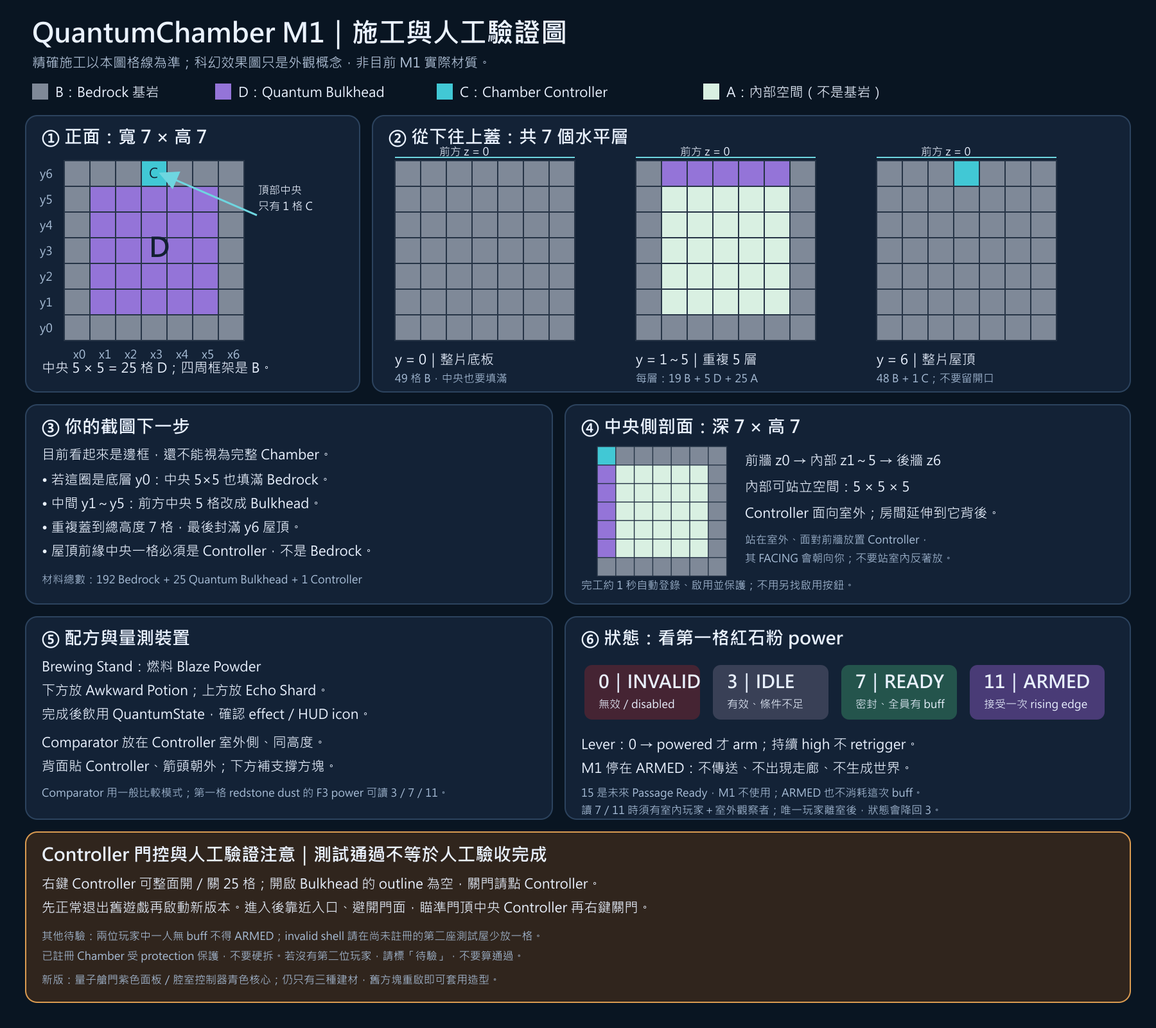
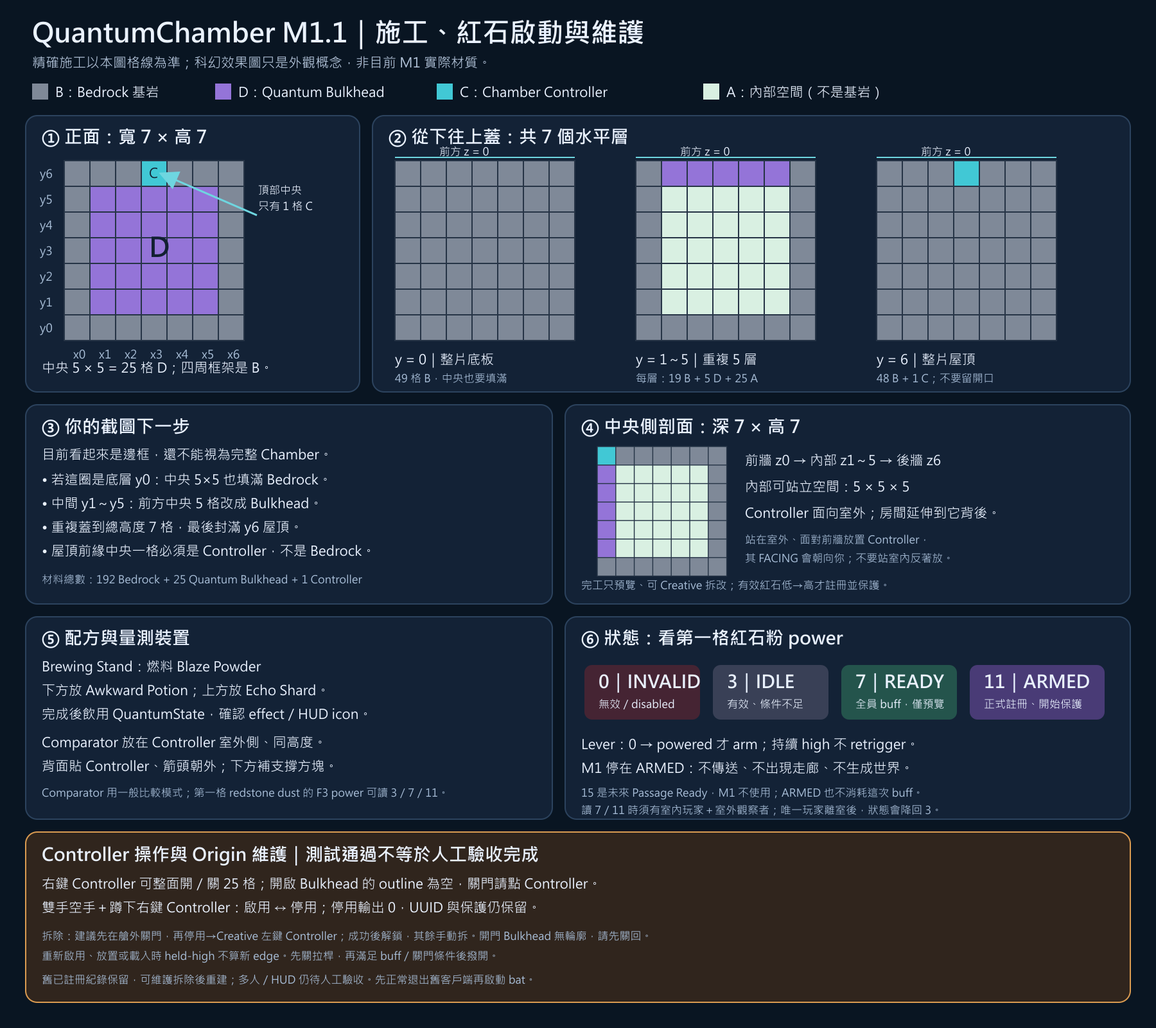
docs: record M1.1 maintenance verification and player guide

diff --git a/docs/plans/2026-09-17-m1.1-origin-maintenance.md b/docs/plans/2026-09-17-m1.1-origin-maintenance.md
@@ -50,7 +50,7 @@
 - Produces: `public Optional<ChamberRecord> findOrigin(Identifier worldKey, DimensionRole role, ChamberFrame frame)`，完全唯讀的 exact world／role／anchor／facing 查找。
 - Preserves: `attemptArm(ServerWorld, ChamberControllerBlockEntity)`，僅在資格通過後才 register／resolve；既有純 registry port seam 可保留。
 
-- [ ] **Step 1: 新增會失敗的行為測試。** 有效關門＋有 buff 玩家執行 refresh，應 READY，但 BE UUID null 且 `findOrigin` empty；scheduled tick、falling edge、開／關門和 chunk load 同樣不得新建 record。零人、無 buff、開門與錯誤 shell 的 pulse 不註冊；有效真正 pulse 才 ARMED 且受保護。使用真實 lever／world neighbor update，不只 direct attemptArm。
+- [x] **Step 1: 新增會失敗的行為測試。** 有效關門＋有 buff 玩家執行 refresh，應 READY，但 BE UUID null 且 `findOrigin` empty；scheduled tick、falling edge、開／關門和 chunk load 同樣不得新建 record。零人、無 buff、開門與錯誤 shell 的 pulse 不註冊；有效真正 pulse 才 ARMED 且受保護。使用真實 lever／world neighbor update，不只 direct attemptArm。
 
 ```java
 // 放入既有 GameTest，利用既有 build 與 participant helper。
@@ -62,8 +62,8 @@ context.assertTrue(registry.findOrigin(world.getRegistryKey().getValue(), role, 
 // 之後用原生紅石由低轉高，斷言 UUID／record／ARMED／protection。
 ```
 
-- [ ] **Step 2: 跑 RED。** 在 Java 21 程序環境執行 `./gradlew.bat --no-daemon --offline test runGameTest --rerun-tasks`，保存實際失敗名稱／原因。新 method 尚未存在的編譯失敗只證明 seam 不存在，補 seam 後需取得舊自動註冊造成的行為失敗。
-- [ ] **Step 3: 實作最小分離。** 先驗證 world role、BE kind、shell、Registry 健康、既有 Origin 身分、enabled、sealed 與所有完整位於 interior 的非 spectator 玩家；無既有 record 的草稿視 enabled=true。UUID 已存在但 record／身分對不上不得當新草稿。只有 accepted 後才提交註冊／resolve，overlap 拒絕不寫 UUID。preview 可回傳 eligibility accepted，但不改 UUID／record。既有 schema1 record 保留並唯讀解析，不做自動清除。
+- [x] **Step 2: 跑 RED。** 在 Java 21 程序環境執行 `./gradlew.bat --no-daemon --offline test runGameTest --rerun-tasks`，保存實際失敗名稱／原因。新 method 尚未存在的編譯失敗只證明 seam 不存在，補 seam 後需取得舊自動註冊造成的行為失敗。
+- [x] **Step 3: 實作最小分離。** 先驗證 world role、BE kind、shell、Registry 健康、既有 Origin 身分、enabled、sealed 與所有完整位於 interior 的非 spectator 玩家；無既有 record 的草稿視 enabled=true。UUID 已存在但 record／身分對不上不得當新草稿。只有 accepted 後才提交註冊／resolve，overlap 拒絕不寫 UUID。preview 可回傳 eligibility accepted，但不改 UUID／record。既有 schema1 record 保留並唯讀解析，不做自動清除。
 
 ```java
 ArmAttemptResult preview = evaluateReadiness(world, controller);
@@ -81,8 +81,8 @@ ArmAttemptResult result = rising
 // refreshState／falling 使用 evaluateReadiness；load 同步電力而不 arm。
 ```
 
-- [ ] **Step 4: GREEN 與回歸。** 完整 test＋runGameTest 綠燈；測 held-high placement／load 沒 fake edge、constant power 不 retrigger、既有註冊艙體在 prerequisites 消失仍保護、無 client 類別。保留原測試涵蓋，僅修 fixture 使其符合新契約。
-- [ ] **Step 5: 自審與提交。** `git diff --check`，精確 add 本任務 src 檔案；提交 `fix: defer chamber registration until successful redstone edge`。完整報告寫 task-1-report.md，含 RED／GREEN 指令、輸出、XML count、介面、疑慮。
+- [x] **Step 4: GREEN 與回歸。** 完整 test＋runGameTest 綠燈；測 held-high placement／load 沒 fake edge、constant power 不 retrigger、既有註冊艙體在 prerequisites 消失仍保護、無 client 類別。保留原測試涵蓋，僅修 fixture 使其符合新契約。
+- [x] **Step 5: 自審與提交。** `git diff --check`，精確 add 本任務 src 檔案；提交 `fix: defer chamber registration until successful redstone edge`。完整報告寫 task-1-report.md，含 RED／GREEN 指令、輸出、XML count、介面、疑慮。
 
 ### Task 2: Origin 身分維護與創造模式安全拆除
 
@@ -93,6 +93,7 @@ ArmAttemptResult result = rising
 - Modify: `src/main/java/dev/quantumchamber/chamber/ChamberRegistry.java`
 - Modify if required: `src/main/java/dev/quantumchamber/chamber/ProjectionIndex.java`
 - Modify: `src/main/java/dev/quantumchamber/chamber/ChamberControllerBlock.java`
+- Modify: `src/main/java/dev/quantumchamber/chamber/ChamberProtectionService.java`
 - Modify: `src/main/java/dev/quantumchamber/QuantumSuperpositionMod.java`
 - Test: `src/test/java/dev/quantumchamber/chamber/ChamberLifecycleServiceTest.java`，及現有 registry／index 測試。
 - Test: `src/testmod/java/dev/quantumchamber/gametest/M1ChamberGameTests.java`
@@ -102,9 +103,10 @@ ArmAttemptResult result = rising
 - Produces: `public record ChamberOriginAuthority(UUID chamberUuid, Identifier worldKey, DimensionRole role, BlockPos controllerPos, Direction facing, ChamberInstanceKind instanceKind)`。
 - Produces: `public boolean setOriginEnabled(ChamberOriginAuthority authority, boolean enabled)` 與 `public boolean dismantleOrigin(ChamberOriginAuthority authority, BooleanSupplier removeController)`，放在 `ChamberLifecycleService`。
 - Produces: `ChamberMaintenanceInteraction.initialize()` common-only 事件註冊，及 `toggleEnabled(ServerWorld world, BlockPos pos, PlayerEntity player)` 回傳 `ActionResult`。
+- Produces: `ChamberProtectionService.authorizedMutation(ServerWorld world, BlockPos target, Supplier<T> action)` 的精確 world identity／target pos 授權 overload；只允許這一格的原生 `setBlockState`，finally 還原巢狀 scope。既有整面 door transaction 的 broad overload 保留不變。
 - Registry 的移除方法限制 trusted package 內呼叫，移除 record、對應全 bounds 索引並 markDirty；不新增 unrestricted public unregister gameplay API。
 
-- [ ] **Step 1: 純測試與原生互動 RED。** 使用真 Registry 測錯 UUID、kind、world、role、anchor、facing、destroyed 皆拒絕且原 record 不變；enabled 不可拆；disabled callback false／throw 不清 record／任何 chunk 索引；成功後所有 bounds chunks 無 candidates 且同位置可再 register 新 UUID。測 NBT roundtrip disable／remove。GameTest 走 `ServerPlayerInteractionManager.interactBlock`＋main/off-hand，證明雙空手蹲下 toggle、持物蹲下不搶放置、spectator 拒絕；維護不要求完整 shell。
+- [x] **Step 1: 純測試與原生互動 RED。** 使用真 Registry 測錯 UUID、kind、world、role、anchor、facing、destroyed 皆拒絕且原 record 不變；enabled 不可拆；disabled callback false／throw 不清 record／任何 chunk 索引；成功後所有 bounds chunks 無 candidates 且同位置可再 register 新 UUID。測 NBT roundtrip disable／remove。GameTest 走 `ServerPlayerInteractionManager.interactBlock`＋main/off-hand，證明雙空手蹲下 toggle、持物蹲下不搶放置、spectator 拒絕；維護不要求完整 shell。
 
 ```java
 ChamberRecord original = registry.records().get(uuid);
@@ -117,8 +119,12 @@ assertTrue(registry.findAt(role, protectedPos).isEmpty());
 // 每個相交 chunk 與另一個 role 皆斷言，不只 anchor。
 ```
 
-- [ ] **Step 2: 保存 RED。** 跑聚焦 JUnit（`--tests '*ChamberLifecycleServiceTest'`）與 GameTests，記錄缺維護入口／移除方法的失敗；如先補 method stub，必須另取得行為 RED。
-- [ ] **Step 3: 實作身分與失敗安全提交。** 純 service 核對 authority 對 record 的全部欄位、雙方 ORIGIN、非 destroyed；setEnabled／dismantle 無完整 shell 依賴。拆除必須先 disabled，先 callback，true 才 unregister。callback throw 可向上傳遞，但不可先解除保護。world adapter 另核對健康 Registry、當下 BE world／position／removed／UUID／kind／facing 和 vanilla role，不信任呼叫者偽造 context。
+- [x] **Step 2: 保存 RED。** 跑聚焦 JUnit（`--tests '*ChamberLifecycleServiceTest'`）與 GameTests，記錄缺維護入口／移除方法的失敗；如先補 method stub，必須另取得行為 RED。
+- [x] **Step 3: 實作身分與失敗安全提交。** 純 service 核對 authority 對 record 的全部欄位、雙方 ORIGIN、非 destroyed；setEnabled／dismantle 無完整 shell 依賴。拆除必須先 disabled，先 callback，true 才 unregister。callback throw 可向上傳遞，但不可先解除保護。world adapter 另核對健康 Registry、當下 BE world／position／removed／UUID／kind／facing 和 vanilla role，不信任呼叫者偽造 context。
+
+拆 Controller 不使用可授權整個 thread 的舊 broad scope；改用上述 world／target overload。GameTest 在同一受保護房間，target scope 內修改另一格必須 false、目標 C 移除才 true，throw 後一般 protection 仍生效；巢狀 scope 恢復亦需斷言。只擴充唯一 protection gate，不新增 mixin。
+
+攻擊 callback 在 candidate block／BE 查詢之前先保留原生 player-world／距離／高度／世界權限限制；非法輸入回 PASS，交由原生拒絕。不得先 `getBlockState`／`getBlockEntity` 強載遠方 chunk 再拒絕；可用 nonforcing loaded query 判定。此保證限定模組自己的 callback，不是整個 Fabric event／wire 路徑：鎖定版本的內建 InteractionEventsRouter.java:onInitialize 第28行先 getBlockState，再於第40行回 PASS，會查詢該 chunk。專屬 noForce 測試在測試端選取真實已註冊的模組 handler，名稱標明 own callback，不新增 production test-only hook，不冒充 native gameplay；guard 回退需取得 RED→GREEN。原生非法距離仍驗 record／保護不變，所有有效 lifecycle 持續走原生 processBlockBreakingAction／interactBlock。不修框架、不重排 event、不新增 mixin／packet／foreign world，來源與限制寫入報告。
 
 ```java
 ChamberRecord record = resolveAuthorizedOrigin(authority).orElse(null);
@@ -127,9 +133,9 @@ if (!removeController.getAsBoolean()) return false;
 return registry.removeOrigin(record.chamberUuid());
 ```
 
-- [ ] **Step 4: 接原生入口與訊息。** Controller 普通右鍵仍 toggle door；雙手空手＋isSneaking 維護放在 shell validation 前。只 server 寫入；拒絕 spectator。停用立即 state INVALID／comparator0；重新啟用同步當下電力 latch，再唯讀 refresh，避免 held-high 假 edge。Creative attack event 驗證後以 authorizedMutation 僅移除 Controller，真實移除成功才清 record；回傳消費結果避免第二次 vanilla mutation。先以本機 Fabric API 原始碼確認 AttackBlockCallback 的 client／server callback 語意；未註冊 Controller 維持原生破壞，enabled／projection／錯身分拒絕。不加第二個 mixin、不先 unregister 再依賴可取消的 BEFORE break。繁中 actionbar 說明成功／拒絕；不新增自訂 packet。
-- [ ] **Step 5: GREEN。** 跑完整 test＋runGameTest；原生 Creative 左鍵 disabled Controller 後，斷言 C 真實為 air、BE removed、record／全 chunk 索引無 ghost、普通 volume mutation 恢復；已啟用受保護、非 Creative／錯 world／Projection 拒絕；雙空手 toggle、普通右鍵 door、持物放置回歸、held-high re-enable 不 arm。
-- [ ] **Step 6: 提交。** diff check、精確 add、`feat: add guarded origin maintenance and creative dismantling`；task-2-report.md 記錄 RED／GREEN、API 來源、覆蓋與可能疑慮。
+- [x] **Step 4: 接原生入口與訊息。** Controller 普通右鍵仍 toggle door；雙手空手＋isSneaking 維護放在 shell validation 前。只 server 寫入；拒絕 spectator。停用立即 state INVALID／comparator0；重新啟用同步當下電力 latch，再唯讀 refresh，避免 held-high 假 edge。Creative attack event 驗證後以 authorizedMutation 僅移除 Controller，真實移除成功才清 record；回傳消費結果避免第二次 vanilla mutation。先以本機 Fabric API 原始碼確認 AttackBlockCallback 的 client／server callback 語意；未註冊 Controller 維持原生破壞，enabled／projection／錯身分拒絕。不加第二個 mixin、不先 unregister 再依賴可取消的 BEFORE break。Fabric attack hook 在原生距離／高度／世界權限檢查之前，因此自行 mutation 前必須確認 `player.canInteractWithBlockAt(pos, 1.0)`、`pos.getY() < world.getTopY()`、`world.canPlayerModifyAt(player, pos)`；GameTest 另測遠距離拒絕。不能把 native `tryBreakBlock` 的 creative 回傳 true 當作世界移除成功，使用 `world.removeBlock(pos, false)` 真實 boolean。繁中 actionbar 說明成功／拒絕；不新增自訂 packet。
+- [x] **Step 5: GREEN。** 跑完整 test＋runGameTest；原生 Creative 左鍵 disabled Controller 後，斷言 C 真實為 air、BE removed、record／全 chunk 索引無 ghost、普通 volume mutation 恢復；已啟用受保護、非 Creative／錯 world／Projection 拒絕；雙空手 toggle、普通右鍵 door、持物放置回歸、held-high re-enable 不 arm。
+- [x] **Step 6: 提交。** diff check、精確 add、`feat: add guarded origin maintenance and creative dismantling`；task-2-report.md 記錄 RED／GREEN、API 來源、覆蓋與可能疑慮。
 
 ### Task 3: 跨程序 persistence 與 dedicated 驗證
 
@@ -140,10 +146,10 @@ return registry.removeOrigin(record.chamberUuid());
 - Artifacts: git-ignored `.superpowers/sdd/2026-09-17-m1.1-origin-maintenance/` 與全新 `run/m11-persistence`、`run/m11-production-smoke`；不用原有 server saves。
 
 **Interfaces:**
-- Consumes: Task 1 preview／real edge；Task 2 authority、setOriginEnabled／dismantleOrigin。
+- Consumes: Task 1 preview／real edge；Task 2 authority、setOriginEnabled／dismantleOrigin，以及精確 world／target authorizedMutation overload。
 - Produces: 沒有新 production API，只建立可重跑的 testmod 探針及逐次啟動／正常 stop 證據。
 
-- [ ] **Step 1: 加條件 testmod 探針。** 用 system property `quantumchamber.m11.phase` 限定 `prepare`、`resume`、`dismantle`、`removed`；沒有 property 的正常 GameTests 不執行探針。fixture 可明示使用 trusted setup 直接註冊，不將此視為 native redstone 或人工 GUI 證據。探針確認在 server thread，每次用具體 assert／throw 判斷，不只印 success。
+- [x] **Step 1: 加條件 testmod 探針。** 用 system property `quantumchamber.m11.phase` 限定 `prepare`、`resume`、`dismantle`、`removed`；沒有 property 的正常 GameTests 不執行探針。fixture 可明示使用 trusted setup 直接註冊，不將此視為 native redstone 或人工 GUI 證據。探針確認在 server thread，每次用具體 assert／throw 判斷，不只印 success。
 
 ```java
 String phase = System.getProperty("quantumchamber.m11.phase", "");
@@ -154,12 +160,12 @@ if (phase.isEmpty()) return;
 // removed：再次啟動，Controller 是 air，無 record／ghost index／自動註冊。
 ```
 
-- [ ] **Step 2: 取得拒絕證據。** prepare 中 callback false，驗證保護／record 保留；錯 authority world 與 enabled 拆除拒絕。保存操作前後原 record 與真實方塊 assert，不能把 mock callback 當世界移除。
-- [ ] **Step 3: 四次獨立程序啟動。** 用 scratch Gradle init script 為既有 server run 暫時加入 testmod source、全新 run dir 與 phase VM arg（不修改 checked-in build）。Java21／offline。每次須有 Done、phase assertions passed、console stop、世界存檔、exit0。UUID 跨程序由 persistence 讀出，不能每次任意生成後假稱相同。出錯時不刪世界掩蓋問題。
-- [ ] **Step 4: Production-only dedicated smoke。** 全新 `run/m11-production-smoke`，無 testmod，使用既有已授權 EULA=true；啟動到 Done→console stop→正常儲存／exit0。檢查無 client class loading error；release JAR 不含 testmod 或 probe。不要啟動／停止使用者現有客戶端。
-- [ ] **Step 5: 完整驗證。** `./gradlew.bat --no-daemon --offline clean build runGameTest --rerun-tasks`；讀 JUnit 和 GameTest XML 精確 count、failure／error；檢查 release JAR 無 client/server boundary regression、無被禁 M2/M3 類別。人工滑鼠／HUD／多人測試仍明確 pending。
-- [ ] **Step 6: 提交與完整報告。** 只 add testmod／缺漏純測試；`test: verify origin maintenance across dedicated restarts`。task-3-report.md 記錄每次命令、stdout 檔案、Done／stop／save／exit、同 UUID 證據、release JAR 檢查、XML。總指揮依此更新玩法圖與 implementation note，再 final whole-feature review；未經人工 gate 不 merge main。
+- [x] **Step 2: 取得拒絕證據。** prepare 中 callback false，驗證保護／record 保留；錯 authority world 與 enabled 拆除拒絕。保存操作前後原 record 與真實方塊 assert，不能把 mock callback 當世界移除。
+- [x] **Step 3: 四次獨立程序啟動。** 用 scratch Gradle init script 為既有 server run 暫時加入 testmod source、全新 run dir 與 phase VM arg（不修改 checked-in build）。Java21／offline。每次須有 Done、phase assertions passed、console stop、世界存檔、exit0。UUID 跨程序由 persistence 讀出，不能每次任意生成後假稱相同。出錯時不刪世界掩蓋問題。
+- [x] **Step 4: Production-only dedicated smoke。** 全新 `run/m11-production-smoke`，無 testmod，使用既有已授權 EULA=true；啟動到 Done→console stop→正常儲存／exit0。檢查無 client class loading error；release JAR 不含 testmod 或 probe。不要啟動／停止使用者現有客戶端。
+- [x] **Step 5: 完整驗證。** `./gradlew.bat --no-daemon --offline clean build runGameTest --rerun-tasks`；讀 JUnit 和 GameTest XML 精確 count、failure／error；檢查 release JAR 無 client/server boundary regression、無被禁 M2/M3 類別。人工滑鼠／HUD／多人測試仍明確 pending。
+- [x] **Step 6: 提交與完整報告。** 只 add testmod／缺漏純測試；`test: verify origin maintenance across dedicated restarts`。task-3-report.md 記錄每次命令、stdout 檔案、Done／stop／save／exit、同 UUID 證據、release JAR 檢查、XML。總指揮依此更新玩法圖與 implementation note，再 final whole-feature review；未經人工 gate 不 merge main。
 
 ## 人工 gate（不以自動測試宣稱完成）
 
-新建艙體→尚未 pulse 可 Creative 拆改；關門＋全員 buff→READY7；有效低→高→ARMED11／保護；持續供電不 retrigger；双手空手蹲右鍵→停用0／保護保留；普通右鍵停用艙門仍可動；再啟用 held-high 不 arm；停用後 Creative 左鍵 Controller→解除保護，其餘方塊可 Creative 拆；重建取得新 UUID。多人／Potion HUD／原生拉桿比較器仍需人工確認，全程不傳送、不出走廊或建立世界。
+新建艙體→尚未 pulse 可 Creative 拆改；關門＋全員 buff→READY7；有效低→高→ARMED11／保護；持續供電不 retrigger；雙手空手蹲右鍵→停用0／保護保留；普通右鍵停用艙門仍可動；再啟用 held-high 不 arm；停用後 Creative 左鍵 Controller→解除保護，其餘方塊可 Creative 拆；重建取得新 UUID。多人／Potion HUD／原生拉桿比較器仍需人工確認，全程不傳送、不出走廊或建立世界。

diff --git a/docs/implementation-notes/m1-player-build-verification.md b/docs/implementation-notes/m1-player-build-verification.md
@@ -1,10 +1,10 @@
-# M1 玩家施工與驗證指引
+# M1／M1.1 玩家施工與驗證指引
 
-本指引對應 `feature/m1-chamber` 的 M1 實作。這是操作指引與待驗清單，不是已通過人工驗收的證據。
+本指引對應 `feature/m1-chamber`；M1.1 改為成功紅石啟動才註冊與保護，並新增 Origin 維護。這是操作指引與待驗清單，不是已通過人工驗收的證據。
 
 ## 啟動本分支的開發客戶端
 
-目前 M1 尚未合併 `main`，請從 `.worktrees/m1-chamber` 工作區啟動，不要在只有 M0 基底的 main 目錄呼叫 Wrapper。
+目前 M1 尚未合併 `main`，本機請從 `.worktrees/m1-chamber` 工作區啟動，不要在只有 M0 基底的 main 目錄呼叫 Wrapper。另一台電腦若直接 clone／checkout `feature/m1-chamber`，則在該 clone 的根目錄執行，不必另建同名 worktree。
 
 最方便的方式是在檔案總管進入該工作區，雙擊 `start-client.bat`。聊天中的檔案連結供閱讀，不會自動執行。PowerShell 也可使用：
 
@@ -57,7 +57,9 @@ $env:PATH="$env:JAVA_HOME\bin;$env:PATH"
 7. 站在室外、面對前牆放置 Controller，使其 `facing` 朝向室外。可用 F3 瞄準 Controller 核對朝向及記下座標。
 8. 最終外側 **7×7×7**，牆厚 1 格，室內 **5×5×5**；192 基岩＋25 Bulkhead＋1 Controller。
 
-注意：完整有效艙體約在下一次 20-tick 刷新時自動登錄並預設啟用，接著整個已登錄範圍受保護。M1 沒有手動啟用按鈕或設定介面。若要事先放室內測試裝置，請在完成整座之前規劃好；不要假設完工後還能改室內方塊。
+**M1.1：完工不會自動註冊或保護。** 最長約 1 秒刷新後，條件不足預覽 IDLE／3，全員有 buff 且門關閉預覽 READY／7；此時尚無 Chamber UUID，可以用創造模式拆改。只有前置條件齊全、Registry 健康且不重疊，收到紅石「未供電 → 供電」才註冊 UUID、進入 ARMED／11，整個 7×7×7 範圍開始保護。請先讓拉桿保持關閉，再完成條件後撥開；放置或載入時本來就供電不算新的邊緣。
+
+已註冊的艙體不會因玩家離開、buff 到期或斷電自動解除保護。室內裝置請在正式啟動前規劃；成功啟動後需用下方維護拆除流程，不能直接改受保護範圍。
 
 ## 3. 釀造與飲用
 
@@ -70,7 +72,7 @@ $env:PATH="$env:JAVA_HOME\bin;$env:PATH"
 
 ## 4. 比較器配置與觀察分工
 
-比較器放在 Controller **室外側、同一高度**，比較器的背面（兩支火把的一側）對著 Controller，輸出端朝外。比較器與輸出端第一格紅石粉下方都要有支撐方塊，且應維持一般比較模式；不要在第一格紅石粉旁再放其他電源。請在室外支撐方塊頂面放置比較器；若直接點 Controller 放外接元件，先蹲下，避免被當成門控右鍵。
+比較器放在 Controller **室外側、同一高度**，比較器的背面（兩支火把的一側）對著 Controller，輸出端朝外。比較器與輸出端第一格紅石粉下方都要有支撐方塊，且應維持一般比較模式；不要在第一格紅石粉旁再放其他電源。請在室外支撐方塊頂面放置比較器；若直接點 Controller 放外接元件，**手拿要放的物品並蹲下**，避免被當成門控右鍵。雙手空手蹲下右鍵另有維護功能。
 
 F3 的比較器 `facing` 是朝輸入側，不是輸出側。例如 Controller 朝 `north`，比較器在其北側，比較器 `facing` 應為 `south`，紅石粉接在比較器北側。這對應目前實體 comparator GameTest 的配置。
 
@@ -80,7 +82,7 @@ Controller → Comparator → Redstone Dust
                下方支撐       下方支撐
 ```
 
-外接輸入拉桿與比較器輸出線分開。可在創造模式飛到屋頂，手拿 Lever、蹲下點 Controller 頂面，把拉桿放在 Controller 正上方，位於艙體範圍外，供電給 Controller。這個拉桿的實際手動操作仍列為待驗，不能把既有 redstone-block GameTest 當作拉桿驗證。
+外接輸入拉桿與比較器輸出線分開。可在創造模式飛到屋頂，手拿 Lever、蹲下點 Controller 頂面，把拉桿放在 Controller 正上方，位於艙體範圍外，供電給 Controller。這個拉桿的實際手動操作仍列為待驗；M1.1 已加入原生 lever 邊緣 GameTest，但不能把原生 API 調用當作滑鼠瞄準／操作的人工驗收。
 
 測試時由室外操作／觀察者撥桿，室內受測玩家保持在中央區域。
 
@@ -89,23 +91,58 @@ Controller → Comparator → Redstone Dust
 - 唯一玩家走出去看比較器後，室內變成零人，下次刷新會回到 IDLE。不能因此判斷 READY／ARMED 壞掉。
 - 單人若允許指令，可留在室內輸入 `/data get block <X> <Y> <Z> ChamberState`，將座標替換成 Controller 的實際座標。這只能檢查狀態，**不能取代實體比較器驗收**。
 
+### 單人創造模式：先用指令測原生紅石
+
+若只有一位玩家且世界允許指令，可留在室內完成全員 buff／關門條件，再於 **Controller 正上方一格（艙體範圍外）**放紅石方塊。先確認該格沒有其他建築／裝置；這是替代輸入測試，不取代實體拉桿與比較器的人工驗收。
+
+例如 Controller 實際座標是 `100 70 100`，其正上方就是 `100 71 100`。先依你自己的 F3 座標換算，**不要直接套用範例座標**：
+
+```mcfunction
+/setblock 100 71 100 minecraft:air
+/data get block 100 70 100 ChamberState
+/setblock 100 71 100 minecraft:redstone_block
+/data get block 100 70 100 ChamberState
+/data get block 100 70 100 ChamberUuid
+```
+
+維持人在 interior：第一個 air 指令讓輸入保持低，前置條件齊全應 READY；第二個 setblock 產生原生低→高，成功後應 ARMED 且 UUID 存在。正式啟動前查 `ChamberUuid` 沒有欄位屬於正常草稿。停用／重新啟用也可用相同位置再次 air→redstone_block 測新邊緣。測試結束移走紅石方塊；只修改艙體外這一格，不用刪世界。
+
 ## 5. 待執行的人工驗證
 
 | 步驟 | 操作 | 預期觀察 |
 | --- | --- | --- |
-| A | 有效艙體、關門，室內沒有玩家或玩家缺效果；輸入保持低電位 | IDLE，輸出 3 |
-| B | 玩家完整站在室內、非 spectator、全員有 QuantumState、門已關 | READY，輸出 7；一般刷新最長約 1 秒 |
-| C | 外部觀察者將拉桿從低電位切成供電 | ARMED，輸出 11 |
+| A | 新建有效艙體、關門，室內沒有玩家或玩家缺效果；輸入保持低電位 | IDLE，輸出 3；尚未註冊／保護，Creative 可拆改 |
+| B | 玩家完整站在室內、非 spectator、全員有 QuantumState、門已關 | READY，輸出 7；一般刷新最長約 1 秒；仍未註冊 |
+| C | 外部觀察者將拉桿從低電位切成供電 | ARMED，輸出 11；此時才有 UUID／註冊與保護 |
 | D | 拉桿保持供電，室內玩家喝牛奶移除效果，再補喝 QuantumState | 先降到 3，再到 7；持續高電位不得自行回到 11 |
 | E | 全員仍有效果，拉桿切成不供電，再重新供電 | 新的 rising edge 才重新到 11 |
 | F | 另在不重疊空地建一座尚未登錄的測試艙，刻意少放一格基岩 | INVALID，輸出 0；不要拆已受保護的第一座 |
 | G | 兩位室內玩家，其中一位缺效果，再給 rising edge | 不得 ARMED，輸出 3；兩人都補上效果後才 READY |
 | H | 右鍵艙門或 Controller 開門，進入後右鍵 Controller 關門 | 整面 25 格開／關同步；原生 ServerWorld 互動已經過 GameTest，正常滑鼠操作仍須人工觀察 |
 | I | 觀察上述全程 | 沒有傳送、走廊、新 Dimension 或 Universe 配置；M1 停在 ARMED |
+| J | 已註冊 Origin，雙手空手、蹲下右鍵 Controller | 停用，輸出 0；UUID 保留、方塊仍受保護，普通右鍵仍能開關門 |
+| K | 保持高電位，再以同一手勢重新啟用 | 只預覽 3／7，不自行 ARMED；必須再次低→高 |
+| L | 再停用後，Creative 左鍵 Controller | Controller 移除，註冊與保護解除；其餘方塊不自動刪除，可 Creative 拆除 |
+| M | 同位置重建完整艙體，再滿足條件並給新的低→高 | 成功註冊新的 UUID，不重用被拆除艙體的 UUID |
 
 兩位室內玩家的案例還需安排外部操作／觀察，或使用完工前已設置並驗證的室內控制線路。帳號或觀察條件不足時，該項保留「待驗」，不要算通過。
 
 每項請記錄實際結果與截圖；輸出 15 不屬於 M1 的預期狀態。
+
+## 6. 停用、重新啟用與拆除
+
+1. 只有已註冊的原始艙體（Origin）可維護；不是投影、錯世界或身分對不上都會拒絕。
+2. 建議先到艙外，用創造模式飛行靠近 Controller 可見的正面／頂面；艙門關閉時，不要假設站在室內還能瞄準被其他方塊遮住的 Controller。清空主手與副手（盾牌、火把等也要拿掉），按住 Shift／蹲下，右鍵青色 Controller。
+3. 停用後比較器為 0；UUID 與保護仍保留，門仍可用普通右鍵開關。停用不等於拆除，也不會解鎖整間房。
+4. 同手勢可重新啟用；若拉桿仍供電，不能直接回 11。先關拉桿，再滿足全員 buff／關門條件，重新撥開。
+5. 要拆除：建議先在艙外用普通右鍵關門，讓 25 格 Bulkhead 回到可瞄準的實體狀態；再停用，用**創造模式左鍵 Controller**。移除成功後解除 Registry／所有相交 chunk 索引與保護。
+6. 最後手動拆其餘基岩與紫色 Bulkhead。此版本不改基岩強度；解除模組保護不表示生存模式可以挖基岩。
+
+維護不要求整座 shell 完整，但必須能核對原 Controller 與持久化記錄；操作失敗不應提早解除保護。尚未註冊的草稿直接 Creative 拆即可，不需維護，也不能藉維護偷偷註冊。
+
+若已在「門開著」時拆掉 Controller，開啟的 Bulkhead 仍是 outline 為空的方塊，滑鼠不能直接挖。可在未受保護的原位置暫放一個同方向 Controller，普通右鍵將有效門面關回去，再以 Creative 拆除草稿 Controller 與 Bulkhead；不要給有效紅石邊緣，避免重新註冊。沒有完整 shell 時先修好幾何，或由管理者以限定方塊座標的指令清除剩餘 Bulkhead，不用刪世界。
+
+**舊版世界：** 舊 schema1 記錄保留，無法可靠區分當時是自動註冊還是真正啟動過，不做自動解鎖或刪除。若想重新測「紅石前無保護」，先停用舊艙體、Creative 拆 Controller，再重建，或另選空地新建。不要刪整個世界。
 
 ## Controller 門控與客戶端重啟
 

diff --git a/docs/implementation-notes/m1.1-origin-maintenance.md b/docs/implementation-notes/m1.1-origin-maintenance.md
@@ -1,0 +1,82 @@
+# M1.1 紅石提交與 Origin 維護紀錄
+
+日期：2026-09-17（Asia/Taipei）。基準 `4f96569`，契約／計畫提交 `5800889`。M1.1 三項實作與自動驗證的獨立 task review 已通過；全 feature final review 另由總指揮記錄。不宣告人工 gameplay／HUD 通過，也不合併 main。
+
+## 核准行為
+
+- 新建有效艙體只預覽 IDLE3／READY7；週期刷新、開關門、falling edge、載入都不新建 UUID／Registry record／保護。
+- 成功紅石低→高且全員 buff／sealed／健康 Registry／不重疊，才註冊 Origin 並 ARMED11、保護整座。
+- 普通右鍵 Controller 開關整面門；雙手空手蹲下右鍵切換 enabled。停用 comparator0，UUID／record／保護仍保留。
+- 停用後 Creative 左鍵 Controller，真實移除成功才刪 record、清全 bounds chunk 索引、解除保護；false／throw／拒絕保留資料。
+- 維護不要求完整 shell，但核對 Origin UUID／kind／world／role／anchor／facing／destroyed／Registry 健康。Projection／錯世界不允許。
+- 重新啟用 held-high 不算邊緣；原生距離／高度／世界權限也不可被維護 callback 繞過。
+- 舊 schema1 紀錄保留，不猜測曾否啟動；可停用拆除後重建測新註冊流程。基岩強度與生存可挖性不變。
+- 不新增 renderer、packet、Session、Universe、dimension、corridor 或 teleport；仍停在 ARMED。foreign ServerWorld live acceptance 仍保留至 M3。
+
+## 驗證基準與證據邊界
+
+本回合修改前重跑 Java21／offline `test runGameTest --rerun-tasks`：exit0、BUILD SUCCESSFUL in25s、75 JUnit、28 required GameTests；三 vanilla worlds 正常儲存，SERVER_STOPPED detach／queue cleanup 通過。此為修改前基準，不當作 M1.1 通過證據。
+
+原生事件唯讀查證：Fabric interaction-v0 0.7.12+ba9dae06d1 的 AttackBlockCallback 與 client/server mixin；client SUCCESS 只送 START_DESTROY_BLOCK、取消普通 break，server 非 PASS 取消後續 vanilla 並同步方塊。hook 早於原生 reach／height／world 權限檢查，因此 adapter 必須自行維持。MC1.21 named bytecode 的 creative `tryBreakBlock` 可在 remove false 仍返回 true，故拆除使用真正 `world.removeBlock` boolean，不以 tryBreakBlock boolean 判定成功。
+
+施工格線圖維持專案原生 SVG／PNG，不新增聊天內互動工具或 renderer。轉圖 1800×1600；已目視核對中文字、格線、狀態與維護說明無截字或重疊。科幻概念圖仍只作外觀參考。
+
+## 任務驗證
+
+### Task 1 自動驗證
+
+提交 `99ec206`（readiness／registration 邊界）：新增唯讀 `evaluateReadiness` 與 exact `findOrigin`，只有 rising production caller 使用 `attemptArm`。正式行為 RED 為 34 GameTests 中 5 required 失敗，捕捉草稿自動註冊、零人／缺 buff／開門 pulse、未知 UUID；移除 facing filter 的 mutation RED 也被 JVM lookup 測試捕捉。最終完整 `test runGameTest --rerun-tasks` 為 BUILD SUCCESSFUL in57s、exit0，root fresh XML 76 JUnit／34 GameTests，failure／error／skip0，SERVER_STOPPED detach／queue cleanup 通過。獨立審查為 Spec compliant／Task quality Approved，無 Critical／Important／Minor；unchanged versions／geometry／assets／occupants／schema 契約另由 root 核對。此測試不代表維護入口、重啟或人工 gate 已通過。
+
+### Task 2 自動驗證
+
+提交 `7cf5640`：九個 source／test 檔，Origin authority 核對 UUID／world key／role／anchor／facing／kind／destroyed，維護不依賴完整 shell。Controller 雙空手蹲右鍵停用／啟用，原生 Creative 攻擊在 disabled 成功移除 C 後才清 record與所有 chunks 索引；重建仍等新 edge／新 UUID。精確 world identity／target scope 保護其他格，nested／throw 復原。任一手持物保持原生放置，spectator／Projection／錯身分拒絕。沒有 GUI、自訂 packet、第二個 mixin、硬度或 schema 改動。
+
+行為 RED：JUnit5項中3失敗、GameTests41項中4 required失敗；另將 own-handler guard 回退，43項中唯一 noForce 測試失敗，確認真正模組 callback 的查詢順序被覆蓋。最終 `test runGameTest --rerun-tasks --console=plain` BUILD SUCCESSFUL in20s、exit0、10 actions全executed，root fresh XML81 JUnit／43 GameTests，failure／error／skip0，正常save與SERVER_STOPPED detach／queue cleanup通過。維護有效路徑用原生 interactBlock／processBlockBreakingAction；own noForce只為專屬事件邊界測試，不冒充原生端到端。獨立task review另由root記錄；disabled／dismantled跨程序與人工 gate仍未宣告完成。
+
+Task 2 獨立審查：Spec compliant／Task quality Approved，無 Critical／Important。留下兩項 Minor：production及testmod的deprecated API編譯提示需聚焦lint定位，以及測試端Fabric私有handlers／lambda nest-host reflection耦合，升版須同步檢查。不改production API來隱藏測試耦合；跨程序與release仍交Task3驗證。
+
+### Task 3 跨程序與發布邊界
+
+提交 `246229c`：只有testmod `M11PersistenceProbe`與metadata掛接兩檔，沒有production API；無phase property的正常43項GameTests不啟動探針。fixture的trusted setup直接註冊只用於persistence，不當作原生redstone或人工UI證據。
+
+最終全新profile `run/m11-persistence/final-verification`，四次獨立Java程序追蹤UUID `784ad2ef-fd68-4a29-811b-7458900e72e7`：
+
+| phase | Java PID | 結果 |
+|---|---:|---|
+| prepare | 18156 | 啟用／false callback／錯world拒絕，完整record與BlockState保持；停用保存 |
+| resume | 23764 | 同persisted UUID、enabled=false、INVALID／0、held-high不arm、四chunk索引與保護仍在 |
+| dismantle | 23852 | scoped真正removeBlock=true，C為air、BE失效、record／四chunk索引清空、dirty、shell保留 |
+| removed | 13296 | 重新啟動無C／BE／record／ghost index／protection／重新註冊 |
+
+每次均有Done→全部斷言通過→console stop→Saving worlds→All dimensions are saved→exit0。初次profile UUID `69e48ba2-0c30-4eb2-ad0c-66ec24ee9164`的世界與日誌保留；自審加強完整BlockState後不刪初次證據，而另用final子profile重跑。Root另讀原始日誌／XML／SHA核對，非只信任代理摘要。
+
+全新 `run/m11-production-smoke`不含testmod，Loader43mods、Done(0.524s)→console stop→完整save→exit0，無client class loading error。這是本機production sources的dedicated smoke，不是部署外部正式伺服器。
+
[1 lines of base64/hex data omitted]
+
+Scratch audit曾有PowerShell brace parse錯誤及過寬正則誤判既有`universe/DimensionRole`，均保留失敗日誌、核對基準後僅修scratch audit；不是世界失敗，也沒有改production或刪存檔。聚焦Xlint exit0定位production `WorldView.isChunkLoaded(BlockPos)`，testmod同API及`BlockEntity.setCachedState`；新探針無deprecation，舊Minor保留final review。
+
+## Fabric 事件基線限制
+
+額外安全檢查先發現模組 callback 的 candidate query 早於原生距離限制，要求移至 player-world／距離／高度／權限／loaded guard 後。進一步獨立 bytecode 查證：range與loaded guard本身不載入，原生 too-far helper也不查方塊；實測 event invoker仍載入並不能歸因於 vanilla。
+
+真正來源由本機 Fabric sources 與逐 listener 診斷共同證明：interaction-v0 0.7.12+ba9dae06d1 的 `InteractionEventsRouter.java:onInitialize` 第28行無條件 `world.getBlockState(pos)`，一般情況第40行 PASS。模組自己的 handler PASS後 chunk仍未載入，下一個框架router PASS後已載入。**因此只保證模組自己的 callback 不增加非法輸入查詢，不聲稱整個 Fabric event／wire 不強載 chunk。** 專屬邊界測試選取真正已註冊 handler、名稱標明 own callback，仍需 guard 回退 RED→GREEN；有效 lifecycle與非法距離保護測試仍用原生入口。不修框架、不重排event、不加Mixin／packet，也不把真實foreign ServerWorld提前帶入M1.1。
+
+Task 1 最終 log 有一筆 vanilla `Can't keep up`（2416ms／48 ticks）；未找到 ERROR／Exception，所有斷言與正常 shutdown 通過。已列為 final review 待判讀的非阻擋 timing warning，不把自動測試綠燈外推為性能保證。
+
+## 人工 gate
+
+以下全數待人工觀察，不能以 fake player／direct helper／測試用直接註冊替代：
+
+- [ ] 新建完工且未紅石啟動時可 Creative 拆改。
+- [ ] 藥水實際釀造、飲用、效果 HUD。
+- [ ] 25 格整面門、Controller 可瞄準並開關。
+- [ ] 真拉桿／比較器 3→7→11；held-high 不重觸發。
+- [ ] 雙空手蹲右鍵停用0／保護保留，普通右鍵門仍可動。
+- [ ] 持物蹲下可在艙體外放拉桿／比較器，不被維護搶走。
+- [ ] 重新啟用 held-high 不直接11；新低→高才11。
+- [ ] 停用後 Creative 左鍵 C，解除保護，其餘基岩／Bulkhead 可 Creative 拆；重建新的 UUID。
+- [ ] 兩位玩家其中一位缺 buff 不 ARMED；spectator 排除。
+- [ ] 全程沒有穿越、走廊或 Universe／Dimension allocation。
+
+詳見 [施工與玩家驗證指引](m1-player-build-verification.md)；另一台電腦請 checkout feature 分支後從 clone 根目錄執行 start-client.bat。saves 受 gitignore 保護，不會隨 push／pull 自動搬移。

diff --git a/docs/quantum_superposition_chamber_design.md b/docs/quantum_superposition_chamber_design.md
@@ -3,7 +3,7 @@
 > Status: Living design document  
 > Target: Minecraft Java Edition  
 > Document stage: 持續維護的玩法／架構規格；M1 基礎實作與驗收中<br>
-> Revision: 0.9 — 核准 M1 Controller 整面門控與青紫辨識造型，保留 M3 foreign-world live 驗收邊界
+> Revision: 0.10 — 核准 M1.1 成功紅石邊緣才註冊／保護，以及 Origin 停用與 Creative 拆除；保留 M3 foreign-world live 驗收邊界
 >
 > **Code-agent handoff:** Read the entire specification, then follow **Section 32 — Code Agent Execution Contract**. Begin with M0 and do not jump directly to dynamic Universes. M3 and M7 contain explicit research/design gates and must not be guessed through.
 
@@ -160,6 +160,10 @@ For M1, manual/creative construction is acceptable. A survival-friendly construc
 2026-09-16 核准的 M1 操作修正：右鍵有效 Chamber 的 Controller，必須能在伺服器端將全部 25 格 Bulkhead 作為同一 logical door 開啟或關閉。開門後仍維持 empty outline／collision，玩家不必瞄準已成為空 outline 的艙門來關門；改以 Controller 為穩定入口。此入口沿用既有原子 door transaction、mutation authorization 與成功後的同步 Controller／comparator 刷新，不新增 renderer、packet、Session 或跨世界流程。原本右鍵處於關閉狀態的艙門來開門的入口仍保留。
 
 同日另核准青紫辨識造型：量子艙門使用紫色科幻面板，腔室控制器使用青色框與清楚的正面核心，基岩保留為底層／外框。採一般 JSON 模型與 Minecraft 既有材質引用，讓物品圖示同步沿用新造型；不新增 renderer、動畫、bloom、實際光源或自訂 packet，不改碰撞、保護、幾何、方塊 ID 或狀態機。圖解配色是辨識語彙，不承諾概念圖中的 shader 效果；艙體仍只有原本三種建材。
+
+2026-09-17 核准 M1.1：新建艙體的結構刷新、開關門與載入僅唯讀預覽，不配發 UUID、不自動註冊或保護；只有 sealed、至少一位完整位於 interior 的非 spectator 玩家、全員 QuantumState、健康 Registry 與無同 role overlap，收到真正紅石未供電→供電才正式註冊 Origin、保護並 ARMED。已登錄後不因 buff／玩家／電力消失自動解鎖。
+
+Origin Controller 以「雙手空手＋蹲下右鍵」切換 enabled；停用立即 comparator0、禁止 arm，但 UUID／record／保護保留且普通門控仍可用。重新啟用及載入 held-high 不製造新 edge。停用後允許 Creative 左鍵 Controller，核對 UUID、kind、world key／role、anchor／facing 與非 destroyed；真實移除成功後才清 Registry 與所有 chunk 索引，解除保護。維護不要求完整 shell；失敗不先解鎖，不改生存基岩強度。Projection／錯世界不得維護。舊 schema1 紀錄保留，不做推測性刪除或破壞性 migration。完整契約見 [M1.1 核准契約](implementation-notes/m1.1-contract.md)。
 
 ---
 

diff --git a/docs/implementation-notes/m1-chamber.md b/docs/implementation-notes/m1-chamber.md
@@ -1,6 +1,6 @@
 # M1 Chamber Foundation 實作與驗證紀錄
 
-驗證日期：2026-09-16（Asia/Taipei）。M1 foundation 程式與自動驗證已交付；唯一剩餘的 M1 外部驗收門檻為完整人工 gameplay／HUD 清單，因此不宣告整個 M1 completion gate 已完成。Foreign／unknown ServerWorld live coverage 已由使用者核准依設計延後至 M3，不再列為 M1 blocker。
+驗證日期：2026-09-16（Asia/Taipei）。以下為 `4f96569` 前的 M1 foundation 歷史證據，不能直接外推後續版本。2026-09-17 使用者核准 M1.1 紅石提交與 Origin 維護，新增流程的自動驗證與人工 gate 另記於 [M1.1 紀錄](m1.1-origin-maintenance.md)。整個 M1 completion gate 與 main 合併仍未宣告完成。Foreign／unknown ServerWorld live coverage 已由使用者核准依設計延後至 M3，不再列為 M1 blocker。
 
 ## 實作邊界
 
